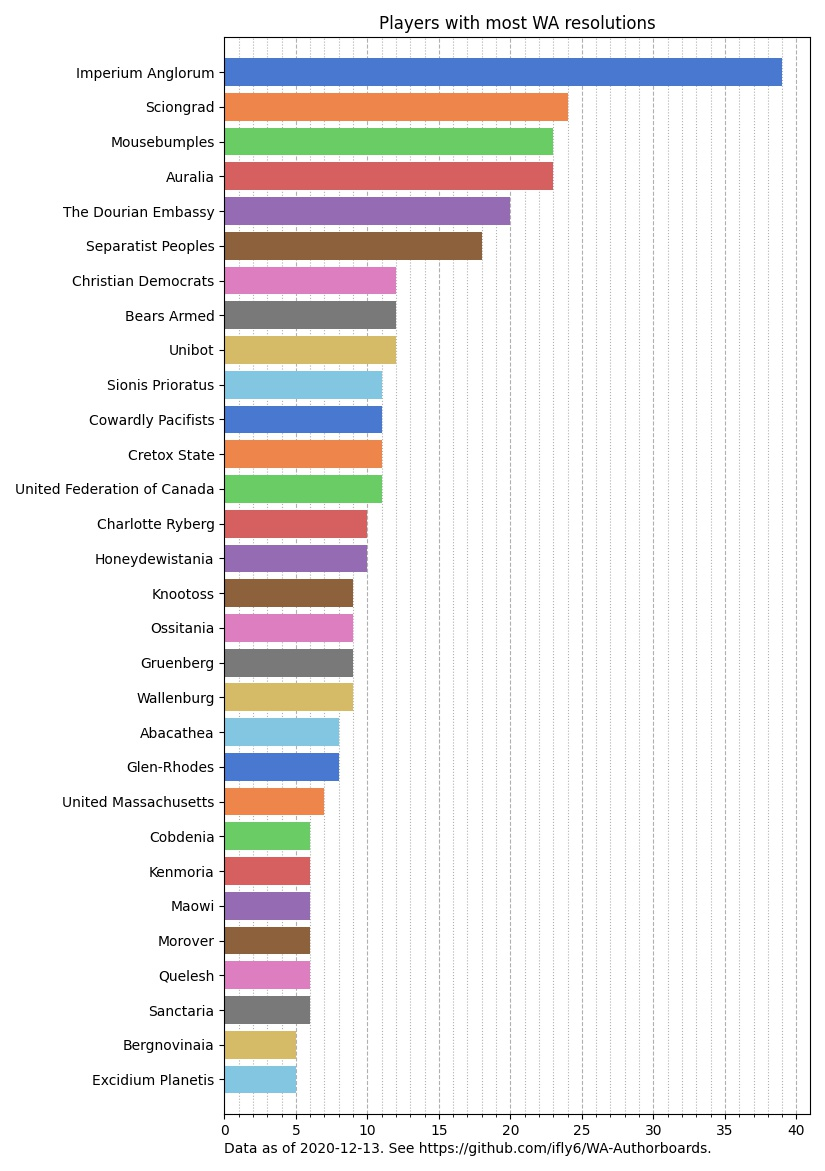
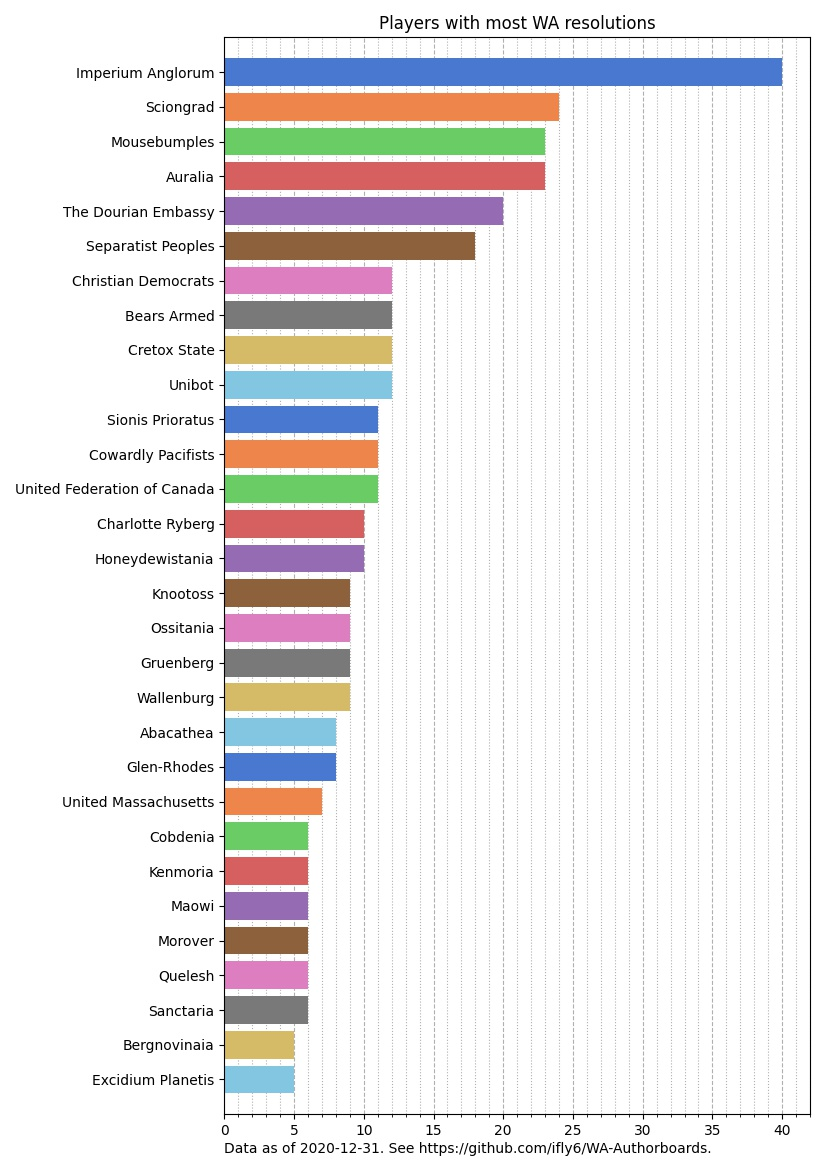
updated to IA resolution 40

diff --git a/md_output/leaderboard.md b/md_output/leaderboard.md
@@ -1,6 +1,6 @@
 | Name                                     |   Authored |   Co-authored |   Repeals |   Active |   Total |
 |:-----------------------------------------|-----------:|--------------:|----------:|---------:|--------:|
-| Imperium Anglorum                        |         34 |             5 |        17 |       18 |      39 |
+| Imperium Anglorum                        |         35 |             5 |        17 |       19 |      40 |
 | **[PLAYER]** Sciongrad                   |         19 |             5 |         7 |       10 |      24 |
 | Mousebumples                             |         16 |             7 |         9 |        8 |      23 |
 | **[PLAYER]** Auralia                     |         23 |             0 |         9 |       11 |      23 |
@@ -10,14 +10,14 @@
 | Sciongrad                                |         13 |             1 |         6 |        7 |      14 |
 | Christian Democrats                      |         11 |             1 |         2 |        6 |      12 |
 | **[PLAYER]** Bears Armed                 |          9 |             3 |         0 |       12 |      12 |
+| **[PLAYER]** Cretox State                |         12 |             0 |         1 |        8 |      12 |
 | **[PLAYER]** Unibot                      |          9 |             3 |         0 |        6 |      12 |
+| Cretox State                             |         11 |             0 |         1 |        8 |      11 |
 | Sionis Prioratus                         |         11 |             0 |         2 |        7 |      11 |
 | **[PLAYER]** Cowardly Pacifists          |         11 |             0 |         3 |        6 |      11 |
-| **[PLAYER]** Cretox State                |         11 |             0 |         1 |        7 |      11 |
 | **[PLAYER]** United Federation of Canada |         10 |             1 |         3 |        3 |      11 |
 | Charlotte Ryberg                         |          8 |             2 |         1 |        3 |      10 |
 | Connopolis                               |          6 |             4 |         1 |        3 |      10 |
-| Cretox State                             |         10 |             0 |         1 |        7 |      10 |
 | Honeydewistania                          |          8 |             2 |         4 |        5 |      10 |
 | Bears Armed Mission                      |          9 |             0 |         0 |        9 |       9 |
 | Knootoss                                 |          6 |             3 |         2 |        6 |       9 |
